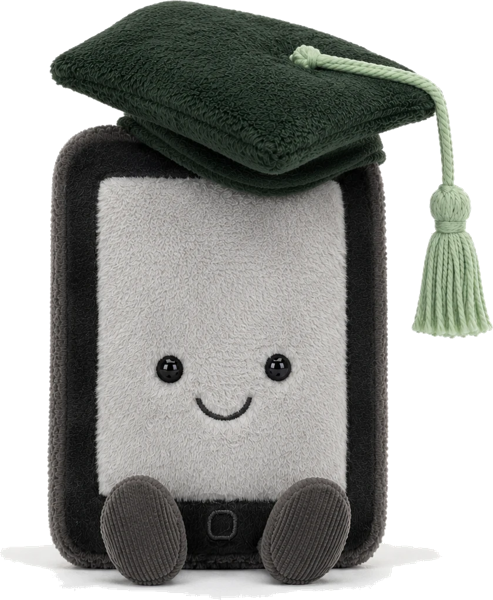
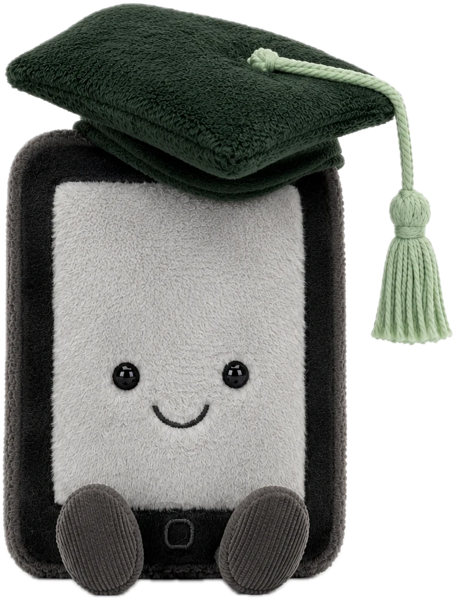
Stan with a transparent background; alerts only for broken or inaccurate data

diff --git a/coverage_export.py b/coverage_export.py
@@ -283,7 +283,7 @@ def main():
     if test_mode:
         cycle_start = parse_dt("2000-01-01T00:00:00Z")   # pre-launch: everything in Qualtrics is test data; show it all
     synthetic = bool(cfg.get("_synthetic"))
-    alerts = []
+    alerts = []   # only for things that are broken or make the data inaccurate (pipeline errors, survey edits, stale inputs, test data)
 
     # ---- reference data
     schools = read_csv(os.path.join(a.data, "schools.csv"))
@@ -631,8 +631,6 @@ def main():
                              "cost_per_valid": round(cost / f["valid"], 2) if cost and f["valid"] else None,
                              "cost_per_new_school": round(cost / f["new_schools"], 2) if cost and f["new_schools"] else None,
                              "hours_per_new_school": round(hours / f["new_schools"], 2) if hours and f["new_schools"] else None})
-        if stage == "activated" and p.get("activated_on") and (now.date() - datetime.fromisoformat(p["activated_on"]).date()).days >= 21 and f["new_schools"] == 0:
-            alerts.append(f"partner {slug} activated {p['activated_on']} has produced 0 new schools")
     partner_rows.sort(key=lambda x: (-x["new_schools"], x["partner"]))
 
     for role in ("student", "educator", "librarian"):
@@ -734,19 +732,10 @@ def main():
           "respondent_level_mismatch": sum(1 for r in valid if "respondent_level_mismatch" in r["flags"]),
           "codebook_misses": sum(codebook_misses.values()), "manual_matches_applied": sum(1 for r in responses if r["match_method"] == "manual"),
           "needs_review": sum(1 for r in completes if r["invalid_reason"] in ("unmatched", "ambiguous", "speeder"))}
-    if dq["queue"]["oldest_days"] and dq["queue"]["oldest_days"] > 7:
-        alerts.append(f"manual match queue has items older than 7 days ({dq['queue']['size']} waiting)")
-    if dq["unknown_channel_share"] and dq["unknown_channel_share"] > 20 and dq["valid"] >= 50:
-        alerts.append(f"{dq['unknown_channel_share']}% of valid reports have no identifiable channel (target < 20%)")
-    if dq["match_rate"] is not None and dq["match_rate"] < 85 and dq["completes"] >= 50:
-        alerts.append(f"school match rate {dq['match_rate']}% (below 85%)")
     if all(s["level"] == "unknown" for s in schools):
         alerts.append("NCES CCD not loaded: school levels unknown, level tiles are empty (see COVERAGE-DESIGN.md §10.6)")
     if not any(s.get("hist_represented") == "true" for s in schools):
         alerts.append("no historical (2025-26) layer loaded: STALE_NEEDS_REFRESH cannot be computed")
-    for ch in channels:
-        if ch["channel"] not in ("unknown", "redirect_from_educator") and ch["valid"] >= 20 and ch["new_last_week"] == 0 and ch["new_this_week"] == 0 and len(complete_weeks) >= 2:
-            alerts.append(f"channel {ch['channel']} produced 0 new schools in the last two weeks")
 
     # ---- lists
     out_lists = os.path.join(a.out, "lists")
